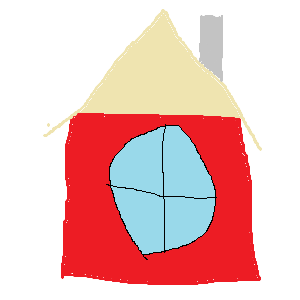
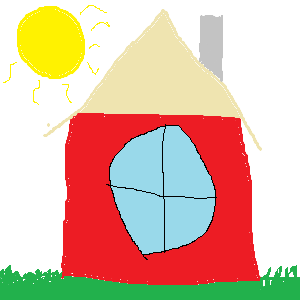
map uuendus

diff --git a/tood/maparea/map.html b/tood/maparea/map.html
@@ -1,5 +1,5 @@
 <!DOCTYPE html>
-<html lang="en">
+<html lang="et">
 <head>
     <meta charset="UTF-8">
     <title>Map area kasutamine</title>
@@ -16,11 +16,13 @@
     <!--ristkülik rect coords=x, y, x1, y2-->
     <area shape="rect" coords="200, 16, 222, 81" href="korsten.html" alt="hall korsten">
     <!--mitu nurga plügoon - ploy cords x,y, x2,y2, x3,y3-kolnurk-->
-    <area shape="rect" coords="78, 112, 163, 13, 238, 116" href="katus.html" alt="katus">
+    <area shape="poly" coords="78, 112, 163, 13, 238, 116" href="katus.html" alt="katus">
+    <area shape="circle" coords="51, 38, 34" href="sun.html" alt="sun">
 </map>
 <div id="selgitus">
     vajuta pildiala peale ja siia tuleb väike kirjeldus
 </div>
+<a href="/index.html">Koduleht</a>
 
 </body>
 </html>

diff --git a/index.html b/index.html
@@ -1,4 +1,4 @@
-g<!DOCTYPE html><!--deklaratsioon et kasutame html5-->
+<!DOCTYPE html><!--deklaratsioon et kasutame html5-->
 <!--kommentar-->
 <html lang="et">
 <head>
